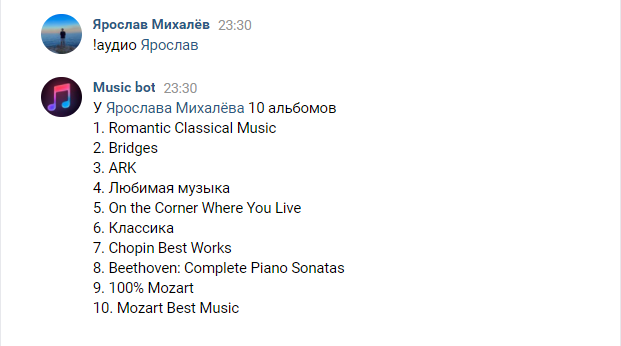
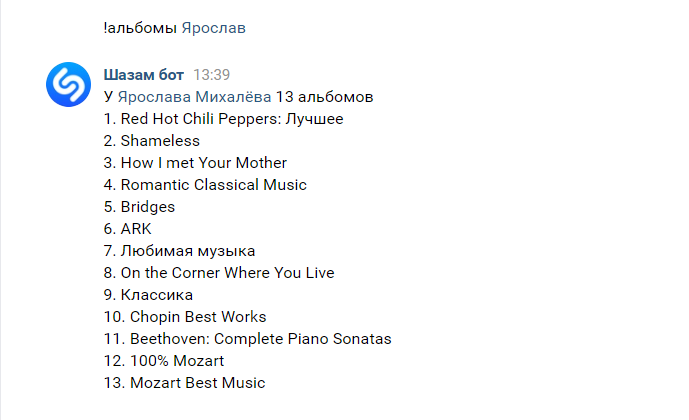
Update

Changed region(s): [[0.0612, 0.0289, 0.5813, 0.9249]]

diff --git a/vk-music-bot/main.py b/vk-music-bot/main.py
@@ -1,95 +1,97 @@
-# -*- coding: utf-8 -*-
+import re
+import logging
 import random
+from pathlib import Path
 
+import yaml
+import requests
 import vk_api
 from vk_api import audio
 from vk_api.bot_longpoll import VkBotLongPoll, VkBotEventType
 from vk_api.utils import get_random_id
-import yaml
 from pytils import numeral
 
+from recognizer import Recognizer
 from functions import decline
 
-popular_listening = []
 
-with open("config.yaml") as ymlFile:
+BASE_DIR = Path(__file__).resolve().parent
+CONFIG_PATH = BASE_DIR.joinpath("config.yaml")
+VK_CONFIG_PATH = BASE_DIR.joinpath("vk_config.v2.json")
+
+with open(CONFIG_PATH, encoding="utf-8") as ymlFile:
     config = yaml.load(ymlFile.read(), Loader=yaml.Loader)
 
+logging.basicConfig(
+    format='%(asctime)s - %(message)s',
+    datefmt='%d-%b-%y %H:%M:%S',
+    level=logging.INFO
+)
 
-class Audio(object):
-    def __init__(self, bot, vk_audio):
-        self.bot = bot
-        self.vk_audio = vk_audio
+logger = logging.getLogger('vk_api')
+logger.disabled = True
 
-    def get_audio(self, chat_id, query):
-        r = self.vk_audio.search(
-            q=query,
-            count=1
-        )
-        try:
-            song = [song for song in r][0]
-            attachment = "audio{}_{}".format(song.get("owner_id"), song.get("id"))
-            self.bot.messages.send(
+
+class Utils:
+    def shazam(self, url, chat_id):
+        song = recognizer.recognize(url)
+
+        if song:
+            self.get_audio(query=song, chat_id=chat_id)
+        else:
+            bot.messages.send(
                 chat_id=chat_id,
-                message="",
-                attachment=attachment,
+                message="Не удалось распознать песню :(",
                 random_id=get_random_id()
             )
-        except:
-            self.bot.messages.send(
+
+    def get_audio(self, query, chat_id):
+        try:
+            response = vk_audio.search(q=query, count=1)
+            song = list(response)[0]
+            attachment = "audio{}_{}".format(song.get("owner_id"), song.get("id"))
+            bot.messages.send(
+                attachment=attachment,
                 chat_id=chat_id,
-                message="Аудиозаписи не найдены",
+                random_id=get_random_id()
+            )
+        except Exception as e:
+            bot.messages.send(
+                message="Аудиозаписи не найдены :(",
+                chat_id=chat_id,
                 random_id=get_random_id()
             )
 
     def get_popular_audio(self, chat_id):
-        r = self.vk_audio.get_popular_iter(
-            offset=random.randint(1, 50)
+        popular_songs = list(vk_audio.get_popular_iter())
+        song = random.choice(popular_songs)
+        attachment = "audio{}_{}".format(song["owner_id"], song["id"])
+        bot.messages.send(
+            attachment=attachment,
+            chat_id=chat_id,
+            random_id=get_random_id()
         )
-        try:
-            for song in r:
-                attachment = "audio{}_{}".format(song.get("owner_id"), song.get("id"))
-                self.bot.messages.send(
-                    chat_id=chat_id,
-                    message="",
-                    attachment=attachment,
-                    random_id=get_random_id()
-                )
-                break
-        except:
-            self.bot.messages.send(
-                chat_id=chat_id,
-                message="Аудиозаписи не найдены",
-                random_id=get_random_id()
-            )
 
-    def get_user_albums(self, chat_id, user_id):
-        user = self.bot.users.get(
+    def get_user_albums(self, user_id, chat_id):
+        user_info = bot.users.get(
             user_ids=user_id,
             fields="sex"
         )[0]
+
         decline_username = decline(
-            first_name=user["first_name"],
-            last_name=user["last_name"],
-            sex=user["sex"]
+            first_name=user_info["first_name"],
+            last_name=user_info["last_name"],
+            sex=user_info["sex"]
         )
-        if user["is_closed"]:
+
+        if user_info["is_closed"]:
             # Профиль закрыт
-            self.bot.messages.send(
-                chat_id=chat_id,
-                message="Профиль [id{}|{}] закрыт❌".format(
-                    user_id,
-                    decline_username
-                ),
-                random_id=get_random_id()
-            )
+            message = "Профиль [id{}|{}] закрыт❌".format(user_id, decline_username)
         else:
             # Профиль открыт
-            user_albums = self.vk_audio.get_albums(
-                owner_id=user_id
-            )
+            user_albums = vk_audio.get_albums(owner_id=user_id)
             if len(user_albums) != 0:
-                # Хотя бы один альбом есть
+                # Есть хотя бы один альбом
                 message = "У [id{}|{}] {}\n".format(
                     user_id,
                     decline_username,
@@ -102,56 +104,52 @@ class Audio(object):
                         album["title"]
                     )
                     album_number += 1
-
-                self.bot.messages.send(
-                    chat_id=chat_id,
-                    message=message,
-                    random_id=get_random_id()
-                )
             else:
-                self.bot.messages.send(
-                    chat_id=chat_id,
-                    message="У [id{}|{}] нет альбомов".format(
-                        user_id,
-                        decline_username
-                    ),
-                    random_id=get_random_id()
-                )
+                message = "У [id{}|{}] нет альбомов".format(user_id, decline_username)
+
+        bot.messages.send(
+            chat_id=chat_id,
+            message=message,
+            random_id=get_random_id()
+        )
 
 
-class Bot(object):
-    def __init__(self, longpoll, bot):
-        self.longpoll = longpoll
-        self.bot = bot
+class Bot:
+    def check_message(self, message, chat_id, event):
+        if message == "шазам":
+            if event.message.fwd_messages:
+                if len(event.message.fwd_messages[0]["attachments"]) > 0:
+                    # Проверяем, чтобы в пересланном сообщении было голосовое сообщение
+                    audio_url = event.message["fwd_messages"][0]["attachments"][0]["audio_message"]["link_mp3"]
+                    utils.shazam(audio_url, chat_id)
+            elif "reply_message" in event.message:
+                if len(event.message.reply_message["attachments"]) > 0:
+                    # Проверяем, чтобы в пересланном сообщении было голосовое сообщение
+                    audio_url = event.message.reply_message["attachments"][0]["audio_message"]["link_mp3"]
+                    utils.shazam(audio_url, chat_id)
+        elif message[:7] == "!поиск ":
+            query = message[7:]
+            utils.get_audio(query=query, chat_id=chat_id)
+        elif message == "!популярное":
+            utils.get_popular_audio(chat_id)
+        elif re.match(r"!альбомы \[id\d+\|(@|)\w+\]", message):
+            user_id = int(re.findall(r"!альбомы \[id(\d+)\|(@|)\w+\]", message)[0][0])
+            self.is_album_select = utils.get_user_albums(user_id, chat_id)
 
-    def check_message(self, received_message, chat_id):
-        if received_message[:7] == "!поиск ":
-            query = received_message[7:]
-            bot_audio.get_audio(chat_id, query=query)
-        elif received_message == "!популярное":
-            bot_audio.get_popular_audio(chat_id)
-        elif received_message[:10] == "!аудио [id":
-            user_id = int(received_message[10:19])
-            self.is_album_select = bot_audio.get_user_albums(chat_id, user_id)
-        elif received_message[:12] == "!аудио [club":
-            self.bot.messages.send(
-                chat_id=chat_id,
-                message="Данная команда не работает с группами",
-                random_id=get_random_id()
-            )
-
-    def run(self):
-        print("Начинаю мониторинг сообщений...")
-
+    def listen(self):
         while True:
             try:
-                """Отслеживаем каждое событие в беседе."""
-                for event in self.longpoll.listen():
-                    if event.type == VkBotEventType.MESSAGE_NEW and event.from_chat and event.message.get("text") != "":
-                        received_message = event.message.get("text").lower()
-                        self.check_message(received_message, event.chat_id)
-            except Exception as e:
+                for event in longpoll.listen():
+                    if event.type == VkBotEventType.MESSAGE_NEW and event.from_chat:
+                        message = event.message.text.lower()
+                        self.check_message(message=message, chat_id=event.chat_id, event=event)
+            except (requests.exceptions.ReadTimeout, requests.exceptions.ConnectionError) as e:
                 print(e)
+                logging.info("Перезапуск бота")
+
+    def run(self):
+        logging.info("Бот запущен")
+        self.listen()
 
 
 if __name__ == "__main__":
@@ -168,23 +166,18 @@ if __name__ == "__main__":
         password=config["user"]["password"]
     )
 
-    try:
-        vk_session.auth()
-        vk = vk_session.get_api()
-        vk_audio = audio.VkAudio(vk_session)
+    vk_session.auth()
+    vk = vk_session.get_api()
+    vk_audio = audio.VkAudio(vk_session)
 
-        vkbot = Bot(
-            longpoll=longpoll,
-            bot=bot
-        )
+    VK_CONFIG_PATH.unlink()
 
-        bot_audio = Audio(
-            bot=bot,
-            vk_audio=vk_audio
-        )
+    recognizer = Recognizer()
+    recognizer.auth(config)
 
-        vkbot.run()
+    vkbot = Bot()
+    utils = Utils()
+    
+    logging.info("Авторизация прошла успешно")
 
-    except Exception as e:
-        print("Не получилось авторизоваться. Неверный логин или пароль.")
-        exit()
+    vkbot.run()

diff --git a/vk-music-bot/recognizer.py b/vk-music-bot/recognizer.py
@@ -1,0 +1,32 @@
+import json
+import io
+
+import requests
+from acrcloud.recognizer import ACRCloudRecognizer
+
+
+class Recognizer:
+    def auth(self, config):
+        recognizer_config = {
+            "host": config["ACRCloud"]["host"],
+            "access_key": config["ACRCloud"]["access_key"], 
+            "access_secret": config["ACRCloud"]["secret_key"],
+            "timeout": 10
+        }
+        self.recognizer = ACRCloudRecognizer(recognizer_config)
+
+    def recognize(self, url):
+        response = requests.get(url, stream=True)
+        buffer = io.BytesIO(response.content).read()
+
+        response = self.recognizer.recognize_by_filebuffer(buffer, 0)
+        data = json.loads(response)
+
+        status = data["status"]["msg"]
+        if status == "Success":
+            title = data["metadata"]["music"][0]["title"]
+            artist = data["metadata"]["music"][0]["artists"][0]["name"]
+            song = "{} - {}".format(artist, title)
+            return song
+        else:
+            return False

diff --git a/README.md b/README.md
@@ -1,13 +1,12 @@
-## Музыкальный бот для беседы Вконтакте
+<h1 align="center">Бот для распознавания музыки из голосовых сообщений</h1>
 
-### Команды
+## Команды
 
-* !поиск <Название песни>
+* Шазам <голосове сообщение>
 
-![Иллюстрация к проекту](https://github.com/YarikMix/vk-music-bot/raw/main/images/command_1.png)<br>
-Отправляет в беседу найденную песню
+![](https://github.com/YarikMix/vk-music-bot/raw/main/images/command_1.png)<br>
 
-* !аудио @<Имя пользователя>
+* !альбомы @<имя пользователя>
 
-![Иллюстрация к проекту](https://github.com/YarikMix/vk-music-bot/raw/main/images/command_2.png)<br>
+![](https://github.com/YarikMix/vk-music-bot/raw/main/images/command_2.png)<br>
 Отправляет в беседу список с названиями альбомов пользователя
